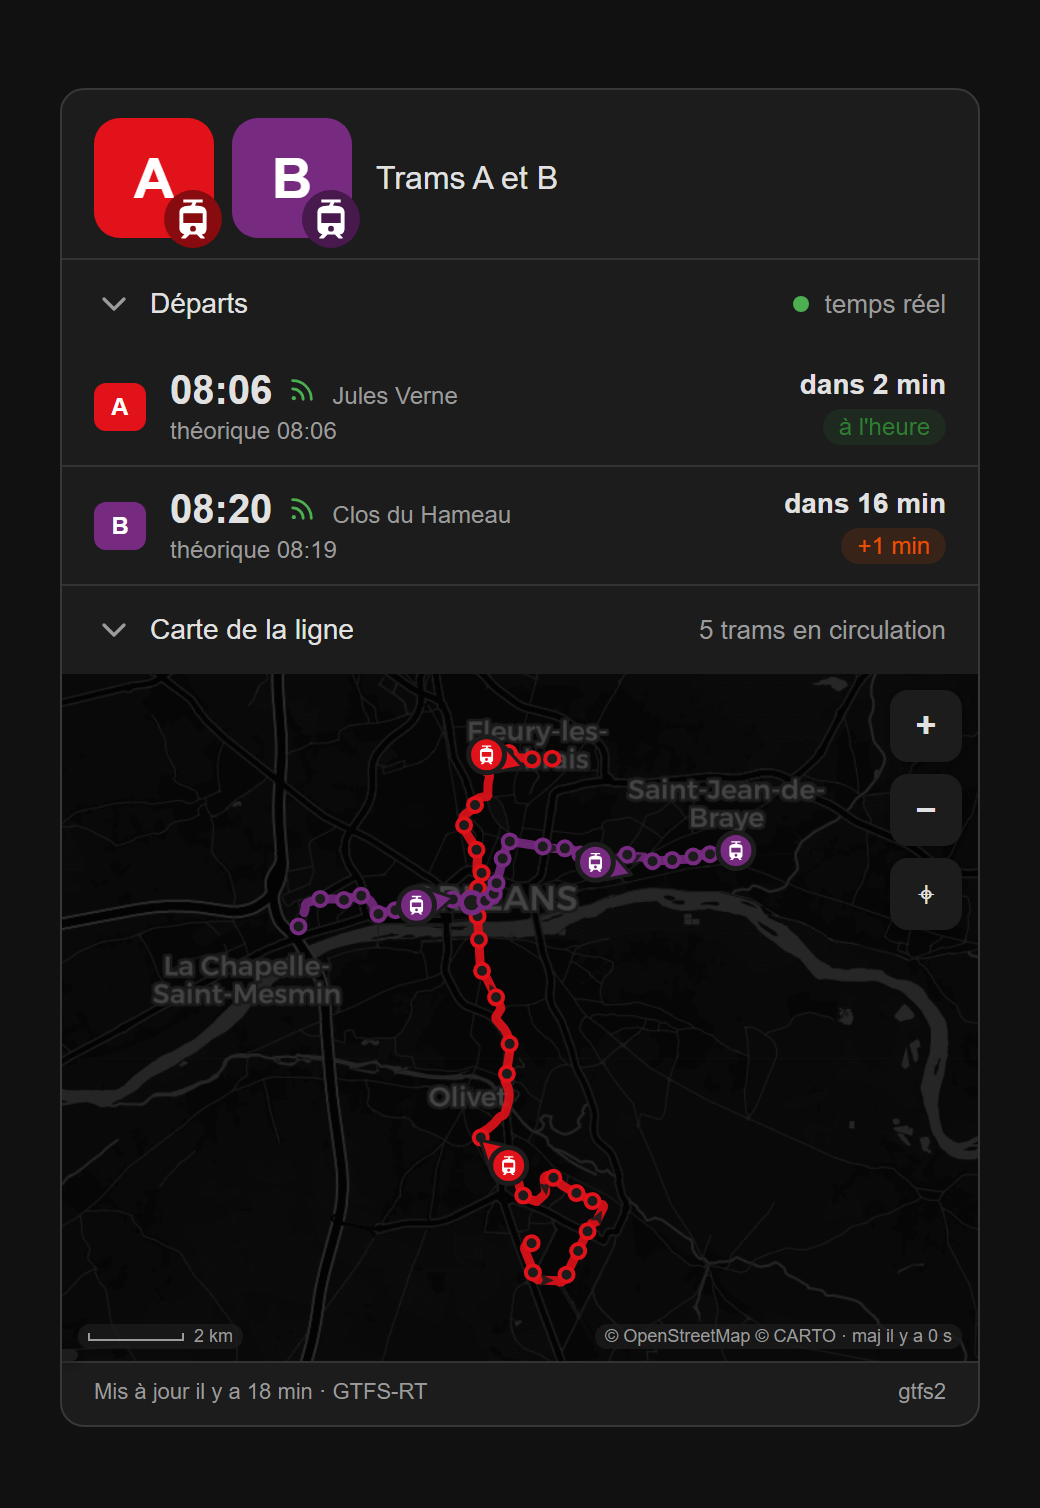
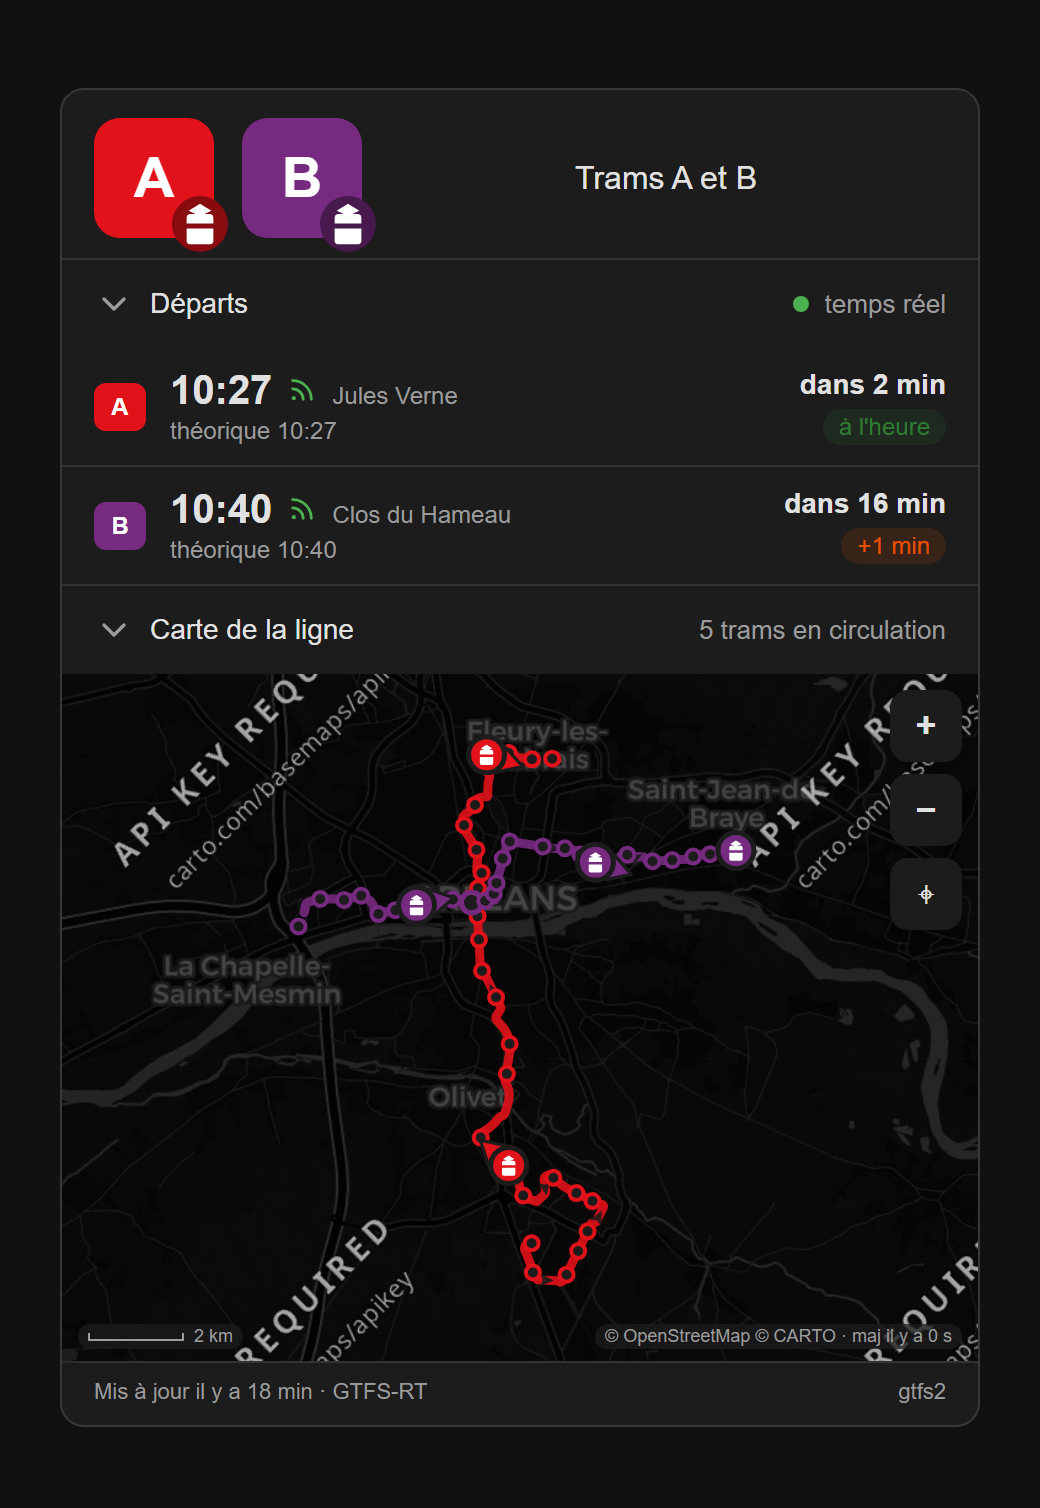
Regenerate the harness and the documentation captures
The harness sensors carry plausible per-line durations, the departures
page enables the duration option, and the 22 captures (light and dark)
are retaken with the badges, panes and durations in their current state.

diff --git a/docs/screenshot-harness.html b/docs/screenshot-harness.html
@@ -259,7 +259,10 @@ const states = {};
 function sensor(file, opts = {}) {
   const n = network[file];
   const rows = deps[file] || [];
-  const id = `sensor.gtfs2_${file.replace("-", "_")}`;
+  // `suffix` donne un identifiant distinct à partir du même instantané, ce dont
+  // la page badges a besoin : la même ligne y paraît plusieurs fois, dans des
+  // états différents, et deux états ne peuvent pas partager un capteur.
+  const id = `sensor.gtfs2_${file.replace("-", "_")}${opts.suffix ? "_" + opts.suffix : ""}`;
 
   // Le temps réel s'écarte du théorique : c'est ce décalage que la carte
   // met en avant. L'instantané ne portait pas de retard (pris avant le
@@ -277,6 +280,9 @@ function sensor(file, opts = {}) {
       next_departures: theo,
       next_departures_realtime: real,
       next_delays_realtime: rows.map((r, i) => late[i] ?? r.delay ?? 0),
+      // Durée théorique de bout en bout, plausible pour la ligne :
+      // l'instantané n'en porte pas, la page en pose comme pour les retards.
+      next_departures_durations: rows.map(() => opts.duration ?? 19),
       origin_station_stop_name: n.reference.stop_name,
       // La carte coupe cette valeur sur « : » et garde la première moitié,
       // qu'elle affiche ET apparie aux arrêts du tracé. Ce doit donc être
@@ -296,9 +302,9 @@ function sensor(file, opts = {}) {
   return id;
 }
 
-const tramA = sensor("tram-a", { delays: [0, 62, 0, 130, 0, 0] });
-const tramB = sensor("tram-b", { delays: [45, 0, 0, 0, 190, 0] });
-const bus40 = sensor("bus-40", { delays: [0, 0, 95, 0, 0, 0] });
+const tramA = sensor("tram-a", { delays: [0, 62, 0, 130, 0, 0], duration: 26 });
+const tramB = sensor("tram-b", { delays: [45, 0, 0, 0, 190, 0], duration: 24 });
+const bus40 = sensor("bus-40", { delays: [0, 0, 95, 0, 0, 0], duration: 19 });
 
 const hass = {
   locale: { language: lang },
@@ -426,15 +432,117 @@ try {
     card({ entity: tramA, max_departures: 4 }, "Tram A — Gare d'Orléans", COLORS["tram-a"], 340);
     card({ entity: tramB, max_departures: 4 }, "Tram B — Halmagrand", COLORS["tram-b"], 340);
     card({ entity: bus40, max_departures: 4 }, "Bus 40 — Gare d'Orléans", COLORS["bus-40"], 340);
+  } else if (page === "badges") {
+    /* La légende du README : chaque marque du cartouche dans son état, sur de
+     * vraies lignes et avec les vrais glyphes. Seule l'entête est gardée, le
+     * reste de la carte n'a rien à dire ici.
+     *
+     * Les états sont forcés par les données, jamais par du CSS : la ligne au
+     * repos reçoit next_service_in_days, la ligne muette pointe vers un
+     * fichier de positions qui n'existe pas, ce qui est exactement ce que
+     * voit la carte quand une source disparaît. Ce qui est photographié est
+     * donc bien ce que le code produit. */
+    stage.style.gridTemplateColumns = "300px 300px";
+    stage.style.alignItems = "start";
+
+    const only = (el) => {
+      // ne garder que l'entête, sans toucher au code : une feuille injectée
+      // dans le shadow root, ce que seul un harnais a le droit de faire.
+      // La carte construit son shadow root quand elle veut, et il n'y a pas
+      // d'évènement pour le dire : on réessaie jusqu'à ce qu'il soit là.
+      const t = setInterval(() => {
+        const root = el.shadowRoot;
+        if (!root || !root.getElementById("header")) return;
+        clearInterval(t);
+        if (root.querySelector("style[data-harness]")) return;
+        const s = document.createElement("style");
+        s.dataset.harness = "1";
+        s.textContent = "#dep-head, #dep-body, #map-head, #map-body, #footer,"
+          + " #focus-panel { display: none !important }"
+          + " .header { padding-bottom: 18px }";
+        root.appendChild(s);
+      }, 40);
+      return el;
+    };
+
+    // les trois états de repos, qui partagent la barre et se distinguent par
+    // la pastille du coin bas-gauche
+    // un capteur au repos n'a PAS de passage du jour : des listes vides,
+    // sinon la regle "un temps reel du jour retient la barre" le voit
+    const rest = sensor("bus-40", { suffix: "rest", attributes: {
+      next_departures: [], next_departures_realtime: [], next_delays_realtime: [],
+      next_service_in_days: 3, next_service_date: "2026-08-27" } });
+    states[rest].state = "unknown";
+    const restTomorrow = sensor("tram-b", { suffix: "rest1", attributes: {
+      next_departures: [], next_departures_realtime: [], next_delays_realtime: [],
+      next_service_in_days: 1, next_service_date: "2026-08-25" } });
+    states[restTomorrow].state = "unknown";
+    const restNever = sensor("tram-a", { suffix: "restx", attributes: {
+      next_departures: [], next_departures_realtime: [], next_delays_realtime: [],
+      next_service_in_days: -1 } });
+    states[restNever].state = "unknown";
+    const mute = sensor("bus-40", { suffix: "mute" });
+    const twoA = sensor("tram-a", { suffix: "sel" });
+    const twoB = sensor("tram-b", { suffix: "sel" });
+
+    only(card({ entity: tramA }, "Mode &middot; bas-droite", null, 300));
+    only(card({ entity: mute, positions_url: "data/aucun-fichier.json" },
+              "Source muette &middot; haut-gauche", null, 300));
+    // les trois marques d'alerte, haut-droite : la cause vient du flux, et
+    // sans cause c'est la marque générique qui sort, jamais un cône qui
+    // mentirait sur une grève
+    const alertPlain = sensor("tram-a", { suffix: "al", attributes: {
+      origin_stop_alert: "Arrêt non desservi ce soir" } });
+    const alertWorks = sensor("bus-40", { suffix: "alw", attributes: {
+      origin_stop_alert: "Travaux rue de la Gare", alert_cause: "CONSTRUCTION" } });
+    const alertInc = sensor("tram-b", { suffix: "ali", attributes: {
+      destination_stop_alert: "Trafic interrompu", alert_effect: "NO_SERVICE" } });
+
+    only(card({ entity: alertPlain }, "Perturbation &middot; haut-droite", null, 300));
+    only(card({ entity: alertWorks }, "Travaux &middot; c&ocirc;ne", null, 300));
+    only(card({ entity: alertInc }, "Service interrompu &middot; &eacute;clair", null, 300));
+    only(card({ entity: restTomorrow }, "Reprend demain &middot; barre et horloge", null, 300));
+    only(card({ entity: rest }, "Reprend dans 3 jours &middot; barre et calendrier", null, 300));
+    only(card({ entity: restNever }, "Aucun service &middot; barre et croix", null, 300));
+    // le pire cas, celui qu'aucune capture ne montrait : quatre pastilles et
+    // le trait sur un seul cartouche. Le repos éteint la marque muette d'un
+    // fichier figé (ce silence-là est attendu), donc les quatre ne coexistent
+    // que si l'entité est réellement indisponible.
+    const everything = sensor("tram-a", { suffix: "all", attributes: {
+      next_departures: [], next_departures_realtime: [], next_delays_realtime: [],
+      origin_stop_alert: "Travaux, arrêt déplacé", alert_cause: "CONSTRUCTION",
+      next_service_in_days: 2, next_service_date: "2026-08-26" } });
+    states[everything].state = "unavailable";
+    only(card({ entity: everything, positions_url: "data/aucun-fichier.json" },
+              "Tout &agrave; la fois &middot; quatre pastilles et le trait", null, 300));
+
+    const pair = only(card({ lines: [twoA, twoB] }, "S&eacute;lection &middot; anneau et att&eacute;nuation", null, 300));
+    // sélectionner la première ligne : c'est un clic, comme pour un lecteur
+    setTimeout(() => {
+      const b = pair.shadowRoot?.querySelector(".badge.clickable");
+      if (b) b.dispatchEvent(new MouseEvent("click", { bubbles: true, composed: true }));
+    }, 400);
   } else if (page === "departures") {
     // Le tableau seul, carte repliée : retards, passages théoriques, jours.
     stage.style.gridTemplateColumns = "420px";
-    card({ lines: [tramA, tramB, bus40], title: "Gare d'Orléans", max_departures: 8 },
+    card({ lines: [tramA, tramB, bus40], title: "Gare d'Orléans", max_departures: 8, show_duration: true },
          null, null, 420);
   } else if (page === "map") {
     // La carte seule, avec les véhicules de l'instantané sur leur tracé.
     stage.style.gridTemplateColumns = "460px";
     card({ lines: [tramA, tramB], title: "Trams A et B", max_departures: 2, map_aspect: "4/3" },
+         null, null, 460);
+  } else if (page === "noposition") {
+    // Une source sans positions temps réel : le capteur n'annonce aucun
+    // fichier de positions, seulement son tracé. La carte ne va donc chercher
+    // aucun fichier de positions (pas de 404 à répétition) et dessine quand
+    // même le trajet, ses arrêts et la station d'origine.
+    stage.style.gridTemplateColumns = "460px";
+    const tramSansRt = sensor("tram-a", {
+      suffix: "sansrt",
+      attributes: { vehicle_positions_file: undefined, route_geojson_file: "tram-a_route.json" },
+    });
+    card({ entity: tramSansRt, title: "Tram A, horaires seuls", max_departures: 2, map_aspect: "4/3" },
          null, null, 460);
   } else if (page === "editor") {
     // L'éditeur visuel, tel qu'il apparaît dans le sélecteur de cartes : les
@@ -467,6 +575,23 @@ try {
     const el = card({ lines: [tramA, tramB], title: "Trams A et B",
                       max_departures: 2, map_aspect: "4/3" }, null, null, 460);
     openPopup(el);
+  } else if (page === "entete12") {
+    // l'entête chargée, à trois tailles : les rangées naissent du contenu
+    // (5 = 4+1, 12 = 3 pleines, 13 = une rangée de plus), jamais de rangée
+    // vide, et la zone de texte occupe le cadre restant, pleine hauteur.
+    stage.style.gridTemplateColumns = "560px";
+    const pool = [tramA, tramB, bus40,
+      ...Array.from({ length: 10 }, (_, i) =>
+        sensor(["bus-40", "tram-a", "tram-b"][i % 3], { suffix: "e" + i }))];
+    for (const n of [5, 12, 13]) {
+      const el = card({ lines: pool.slice(0, n), max_departures: 2 },
+        `${n} cartouches`, null, 560);
+      selectLine(el, 0);
+    }
+    // sans sélection ni titre il n'y a pas de zone de texte : le plafond de
+    // quatre colonnes tombe et les cartouches reprennent toute la largeur
+    card({ lines: pool.slice(0, 9), max_departures: 2 },
+      "9 cartouches, rien de sélectionné : toute la largeur", null, 560);
   } else if (page === "narrow") {
     // Une colonne étroite, comme un panneau latéral ou un téléphone. Chrome
     // headless refuse une fenêtre de moins de 500 px environ, donc l'étroitesse
@@ -500,6 +625,13 @@ const ready = () => {
   }
   const cards = [...stage.querySelectorAll("gtfs2-live-card")];
   if (!cards.length) return false;
+  if (page === "badges") {
+    // la page ne vaut que si les états qu'elle illustre sont bien là : la
+    // pastille muette attend l'échec du fetch, l'anneau attend le clic
+    const has = (sel) => cards.some((c) => c.shadowRoot?.querySelector(sel));
+    return cards.every((c) => c.shadowRoot?.querySelector(".badge"))
+      && has(".badge-pip.mute") && has(".badge-slash") && has(".badge.sel");
+  }
   return cards.every((c) => {
     const root = c.shadowRoot;
     if (!root?.querySelector("ha-card")) return false;

diff --git a/docs/shots.py b/docs/shots.py
@@ -38,6 +38,9 @@ PAGES = {
     "lines":      (740, 560),   # one card per line, side by side
     "departures": (470, 780),   # the board alone, map collapsed
     "map":        (520, 620),   # the map alone, vehicles on their shapes
+    "noposition": (520, 620),   # a source with no realtime: route drawn anyway
+    "entete12":   (560, 760),   # twelve badges, one selected: the full-height text zone
+    "badges":     (620, 320),   # the badge marks, one per state, README legend
     "selected":   (540, 900),   # one line picked from its header badge
     "popup":      (520, 640),   # one vehicle tracked, its bubble open
     # Chrome headless will not open a window narrower than ~500 px, so the

diff --git a/docs/README.md b/docs/README.md
@@ -1,9 +1,29 @@
 # Screenshots
 
-The main README references three captures, expected here:
+Generated, not exported by hand. See [CAPTURES.md](CAPTURES.md) for the whole
+procedure; in short:
 
-- `card-dark.png`: full card, several lines, dark theme (badges, departures board, map with vehicles)
-- `focus-popup.png`: a tracked vehicle with its popup (badge, next stop, speed)
-- `editor.png`: the visual editor (global options + per-line blocks)
+```bash
+python docs/shots.py             # every page, light and dark
+```
 
-Export them at their natural card width (about 450 to 900 px wide); no personal information should be visible.
+The files land in `../images/`, named `<page>-<mode>.png`, one pair per page:
+
+| Page | What it shows |
+|---|---|
+| `hero` | the three lines together, departures board and map |
+| `lines` | one card per line, side by side |
+| `departures` | the board alone, map collapsed |
+| `map` | the map alone, vehicles on their shapes |
+| `noposition` | a source with no realtime: the route and its stops, no vehicle |
+| `selected` | one line picked from its header badge |
+| `popup` | one vehicle tracked, its bubble open |
+| `narrow` | a sidebar-width column |
+| `editor` | the visual editor, sections open |
+| `badges` | the badge marks, one per state: the README's legend |
+
+The main README uses `hero-light`, `selected-light`, `popup-light` and
+`badges-light`.
+
+No personal information is visible: the data is a frozen snapshot of the public
+TAO feed, kept under `data/`.

diff --git a/docs/CAPTURES.md b/docs/CAPTURES.md
@@ -75,9 +75,18 @@ positions pour servir l'instantané.
 | `lines` | une carte par ligne, badges aux couleurs du réseau |
 | `departures` | le tableau seul, retards et passages théoriques |
 | `map` | la carte seule, véhicules sur leur tracé |
+| `noposition` | une source sans temps réel : le tracé et ses arrêts, sans véhicule |
 | `selected` | une ligne choisie par son badge : départs filtrés, tracé mis en avant |
 | `popup` | un véhicule suivi, sa bulle ouverte : terminus, prochain arrêt, vitesse |
 | `narrow` | une colonne étroite, panneau latéral ou téléphone |
+| `badges` | la légende du README : chaque marque du cartouche dans son état |
+
+La page `badges` ne garde que l'entête des cartes, par une feuille injectée
+dans leur shadow root, et ne force **aucun** état par du CSS : la ligne au
+repos reçoit `next_service_in_days`, la ligne muette pointe vers un fichier de
+positions inexistant, la sélection part d'un vrai clic. Ce qui est photographié
+est donc bien ce que le code produit, et la légende ne peut pas mentir sur
+l'apparence réelle.
 
 Chaque page existe en `mode=light` et `mode=dark`, et accepte `lang=` (les cinq
 langues de la carte).
